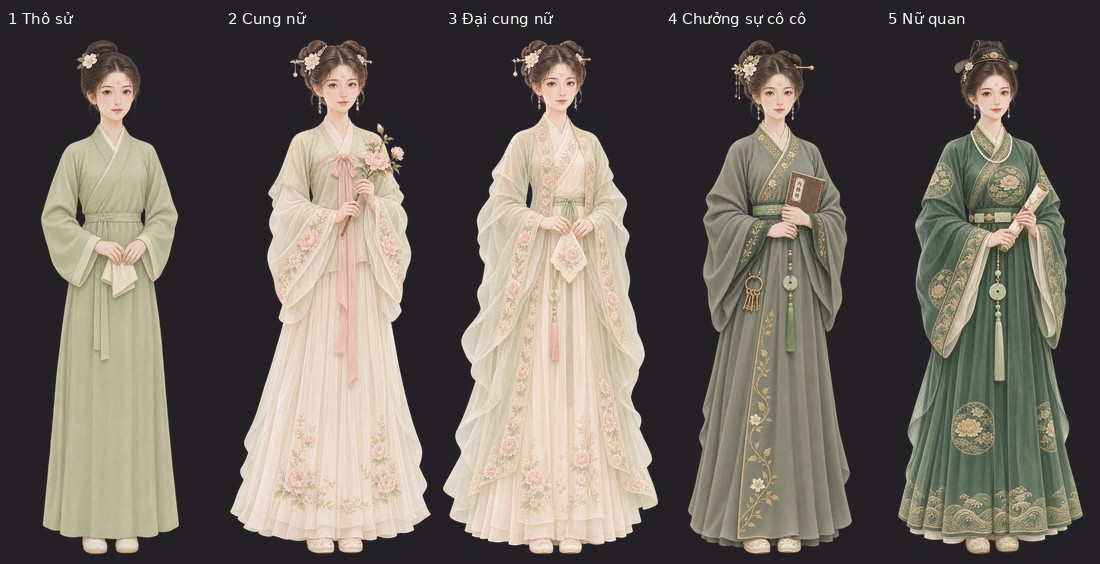
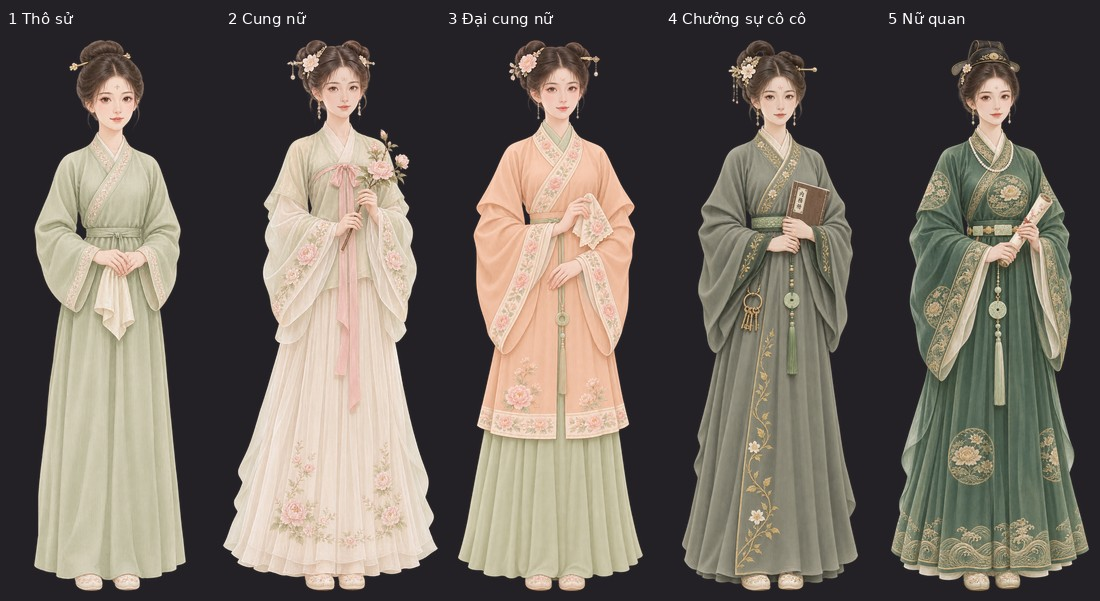
Maid rank standard v4b: rank 1 embroidery+pin, rank 3 solid apricot
Claude-Session: https://claude.ai/code/session_011xDdVRfTXkRr1K97oJueiZ

diff --git a/dev/handover/reports/fig-cutout-clean/rank-standard/maid-markers.md b/dev/handover/reports/fig-cutout-clean/rank-standard/maid-markers.md
@@ -1,7 +1,7 @@
-# Maid m01 a18 rank standard v4 (owner: all ranks FLOWING Han-style, no stand collar/vest/narrow sleeves/cheongsam; rank = refinement, not bulk). Ranks per SRK.maid in dev/build/all42.js. Identity ref = live fig-maid-m01-a18. Masters Magnific gpt-2-6 2k transparent (alpha 0..254), not on CDN.
-1. Thô sử (79aGe57JAL): single opaque layer sage crossed-collar robe, soft medium sleeves, plain narrow sash, no embroidery, one small flower, folded cloth.
+# Maid m01 a18 rank standard v4b (owner: all ranks FLOWING Han-style, no stand collar/vest/narrow sleeves/cheongsam; rank = refinement, not bulk). Ranks per SRK.maid in dev/build/all42.js. Identity ref = live fig-maid-m01-a18. Masters Magnific gpt-2-6 2k transparent (alpha 0..254), not on CDN.
+1. Thô sử (CqzLNH4EEy): single opaque layer sage crossed-collar robe, soft medium sleeves, light cream-pink embroidery at collar and cuffs only, plain narrow sash, ONE gold hairpin, folded cloth.
 2. Cung nữ (w4vADly7EI): ru-qun, light crossed-collar short jacket with airy wide sleeves over pleated cream skirt, pink chest ribbon, peony sleeve-edge embroidery, flower branch.
-3. Đại cung nữ (SymZVsaUb8): sheer long over-robe (daxiushan) with long wide soft sleeves, peony edge bands over cream inner robe and skirt, jade ring pendant, gold pin, handkerchief.
+3. Đại cung nữ (rgd4Wssxtc): SOLID apricot-peach opaque knee-length crossed-collar over-robe, long soft wide sleeves, ivory peony edge bands, over sage inner collar + flowing sage high-waist skirt, jade ring, gold pin, handkerchief.
 4. Chưởng sự cô cô (WDltqNucXe): deeper matte grey-sage crossed-collar robe, soft wide sleeves, gold vine edge embroidery, jade belt + pendant, keys, ledger.
 5. Nữ quan (O6CnXxqynm): deep jade-green crossed-collar robe, gold roundel + wave embroidery, jade-plaque belt with long pendant, pearl necklace, light small official cap, scroll.
-Superseded: v1-v3 masters; v4 first try SymZVxmUb8 (rank1) TdUv50pVNR (rank4) 1lePG1nr4r (rank5).
+Superseded: rank1 79aGe57JAL SymZVxmUb8, rank3 SymZVsaUb8; v1-v3 masters; v4 first try SymZVxmUb8 (rank1) TdUv50pVNR (rank4) 1lePG1nr4r (rank5).
